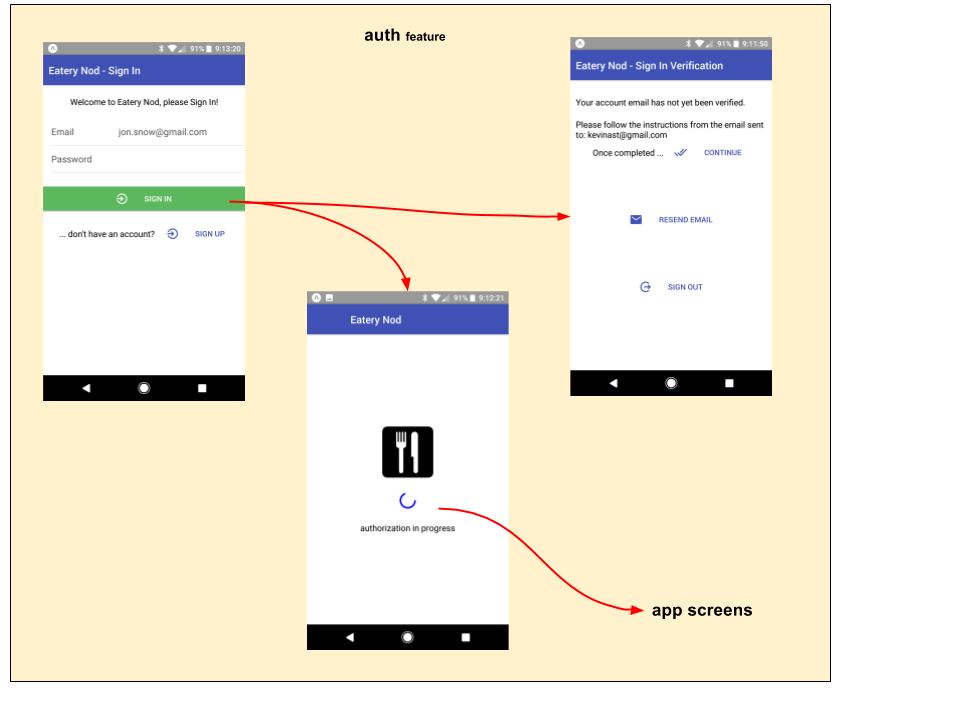
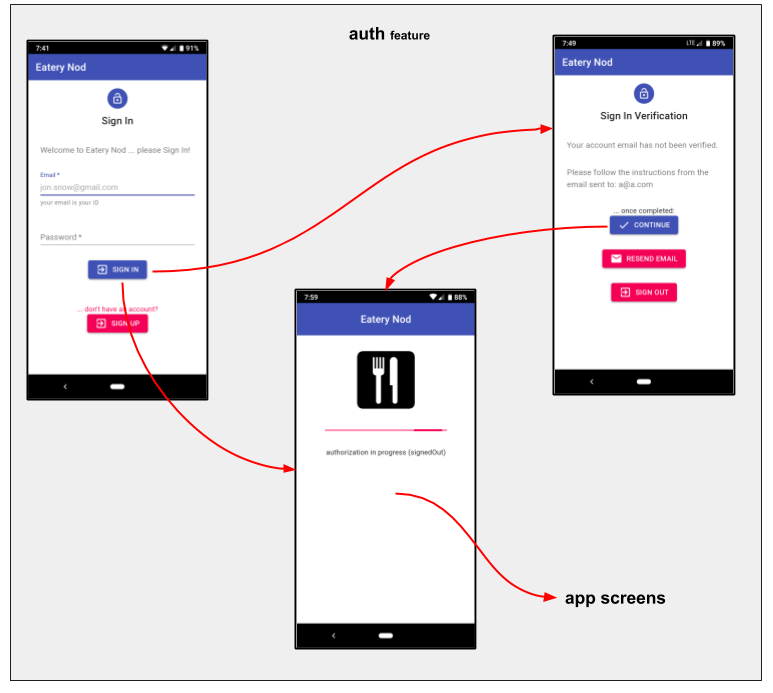
retrofit all screen prints to reflect this web app (retrofitted from the eatery-nod react-native expo app)

diff --git a/README.md b/README.md
@@ -455,6 +455,9 @@ Release  | What                                            | *When*
   can run **eatery-nod-w** and/or setup the project in your local
   environment.
 
+- All screen prints now reflect this web app _(retrofitted from the
+  eatery-nod react-native expo app)_.
+
 <!--- hack to push title down WITHIN ul --->
 &nbsp;
 
@@ -464,13 +467,14 @@ Release  | What                                            | *When*
   feature packages, by accessing them from the deployed server (see
   features: [initFirebase] and [initGooglePlaces]).
 
-- The Material-UI library was upgraded to V4, replacing **ALL** HOCs
-  with **React Hooks**!
+- The Material-UI library was upgraded to V4, replacing **ALL**
+  remaining HOCs with **React Hooks**!
 
 - Upgraded to React V16.8.6.
 
-- Define reusable custom hooks that reveal responsive breakpoints (based on media query)
-  ... see: [`src/util/responsiveBreakpoints.js`](src/util/responsiveBreakpoints.js)
+- Define a set of reusable custom hooks, which maintains responsive
+  breakpoints (based on consistent media queries) ... see:
+  [`src/util/responsiveBreakpoints.js`](src/util/responsiveBreakpoints.js)
 
 </ul></ul>
 
